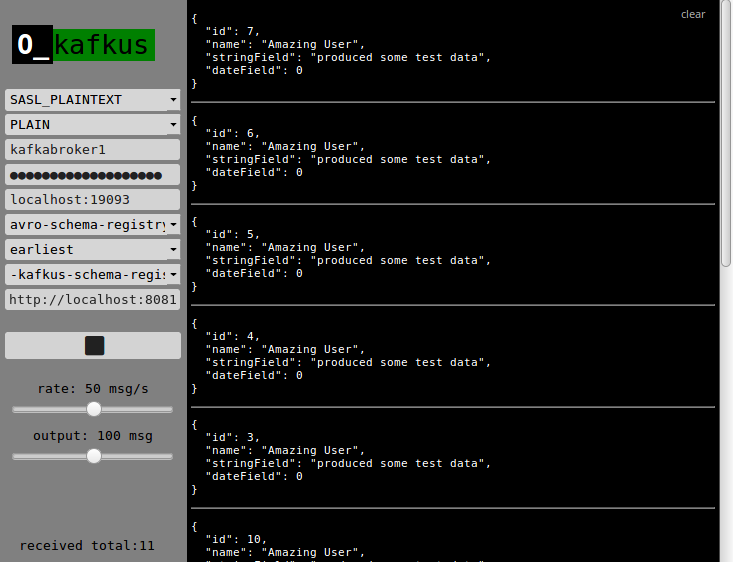
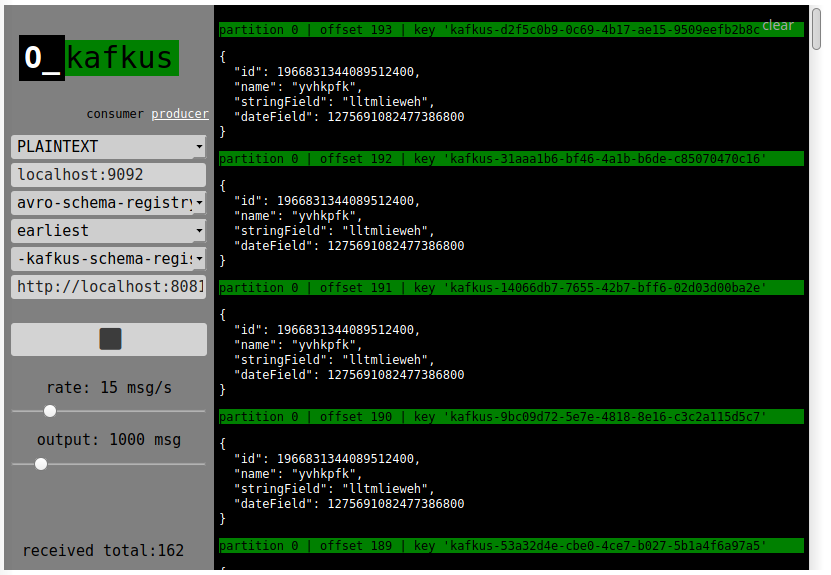
add: offset, partition, key in consumer mode; links to producer/consumer

Changed region(s): [[0.0, 0.0, 1.0, 1.0]]

diff --git a/resources/public/css/style.css b/resources/public/css/style.css
@@ -48,6 +48,11 @@ select {
   padding: 10px 15px;
 }
 
+.dark-grey {
+  background-color: green;
+  color: black;
+}
+
 input {
   -webkit-border-radius: 3px;
   -moz-border-radius: 3px;
@@ -92,6 +97,10 @@ button {
   border: none;
   margin: 2px;
   padding: 8px;
+}
+
+a, a:visited, a:active {
+    color: white;
 }
 
 #wrap {

diff --git a/README.md b/README.md
@@ -12,12 +12,14 @@
 Provide a minimalistic way to inspect, what kind of data is available in a certain Kafka topic.
 
 ## Features
-- Check contents of a Kafka topic with a functionality similar to `kafkacat`, `kafka-avro-console-consumer` and `kafka-console-consumer`
-- 3 modes:
+- Tail log of a kafka topic (payload, key, offset information)
+- 4 ways of deserializing:
     - confluent schema registry (needs valid schema-registry-url) - handles the schema change on the flight
     - raw text format
     - raw avro schemas uploaded to the server folder (configured with `AVRO_SCHEMAS_PATH` env variable).
-- Rate limiting (server-side, so that the load on Kafka is also limited).
+    - json
+- Producer mode, generates a dummy payload for schema-registry data
+- Rate limiting (server-side, to also limit the load on kafka side).
 
 ## Running Kafkus
 
@@ -27,39 +29,27 @@ You can configure Kafkus with some defaults and run it using docker, or provide 
 docker run -p 4040:4040 -v $PWD/schemas-repository:/tmp \
     -e LOG_LEVEL=debug \
     -e AVRO_SCHEMAS_PATH=/tmp \
-    -e LOAD_DEFAULT_CONFIG: "true" \
-    -e DEFAULT_BOOTSTRAP_SERVER: localhost:9092 \
-    -e DEFAULT_SCHEMA_REGISTRY_URL: "http://localhost:8081" \
-    -e DEFAULT_MODE: avro-schema-registry \
-    -e DEFAULT_AUTO_OFFSET_RESET: earliest \
-    -e DEFAULT_RATE: 1 \
-    -e DEFAULT_LIMIT: 1000 \
+    -e LOAD_DEFAULT_CONFIG=true \
+    -e DEFAULT_BOOTSTRAP_SERVER=localhost:9092 \
+    -e DEFAULT_SCHEMA_REGISTRY_URL=http://localhost:8081 \
+    -e DEFAULT_MODE=avro-schema-registry \
+    -e DEFAULT_AUTO_OFFSET_RESET=earliest \
+    -e DEFAULT_RATE=1 \
+    -e DEFAULT_LIMIT=1000 \
     -ti dixel/kafkus
 ```
 
-Kafkus tries to load the topics from server once the `boostrap.servers` field gets unfocused or the `topic` dropdown menu gets opened.
-In the browser go to http://localhost:4040/, select the topic, adjust the configuration and press "Play" to start consuming the data.
+Kafkus tries to load topics from server once the `boostrap.servers` field gets unfocused or the `topic` dropdown menu gets opened.
+In a browser go to http://localhost:4040/, select some topic, adjust configuration and press "Play" to start consuming.
 
 ## Configuration
-Numerous configuration options are available, you can inspect them in the logs of Kafkus during the startup.
-
-## Implementation
-The design goal was to make the application as composable as possible.
-Clojure/Clojurescript is used as the main language to simplify the process of working with custom schemas.
-For client <-> server communication, amazing [sente](https://github.com/ptaoussanis/sente) is used in `ajax` mode (places where I use Kafkus
-have bad-behaving proxies).
-For stateful components management, [mount](https://github.com/tolitius/mount) is used.
+Kafkus is made mainly to be embeddable into existing dockerized ecosystem. Therefore, it's quite easy to start it together with a sample
+kafka cluster with `docker-compose`. Check [examples](./examples).
 
 ## Roadmap
 - Better process/error communication (connected/failed to connect, etc...)
-- Generating and producing the messages, validating the schema (carefully looking into [lancaster](https://github.com/deercreeklabs/lancaster) library)
-- Improving the UX and giving the frontend part a bit more love (input welcome)
+- Improving UX and giving frontend part a bit more love (input welcome)
 - Supporting other ser/de formats (protobuf, thrift)
-
-## Motivation
-- https://github.com/edenhill/kafkacat/issues/119
-- clojure REPL was just fine for me most of the time, but it's not for everyone (check [samples](./dev/user.clj))
-- POC for not using uber-frameworks for similar projects
 
 ## License
 
